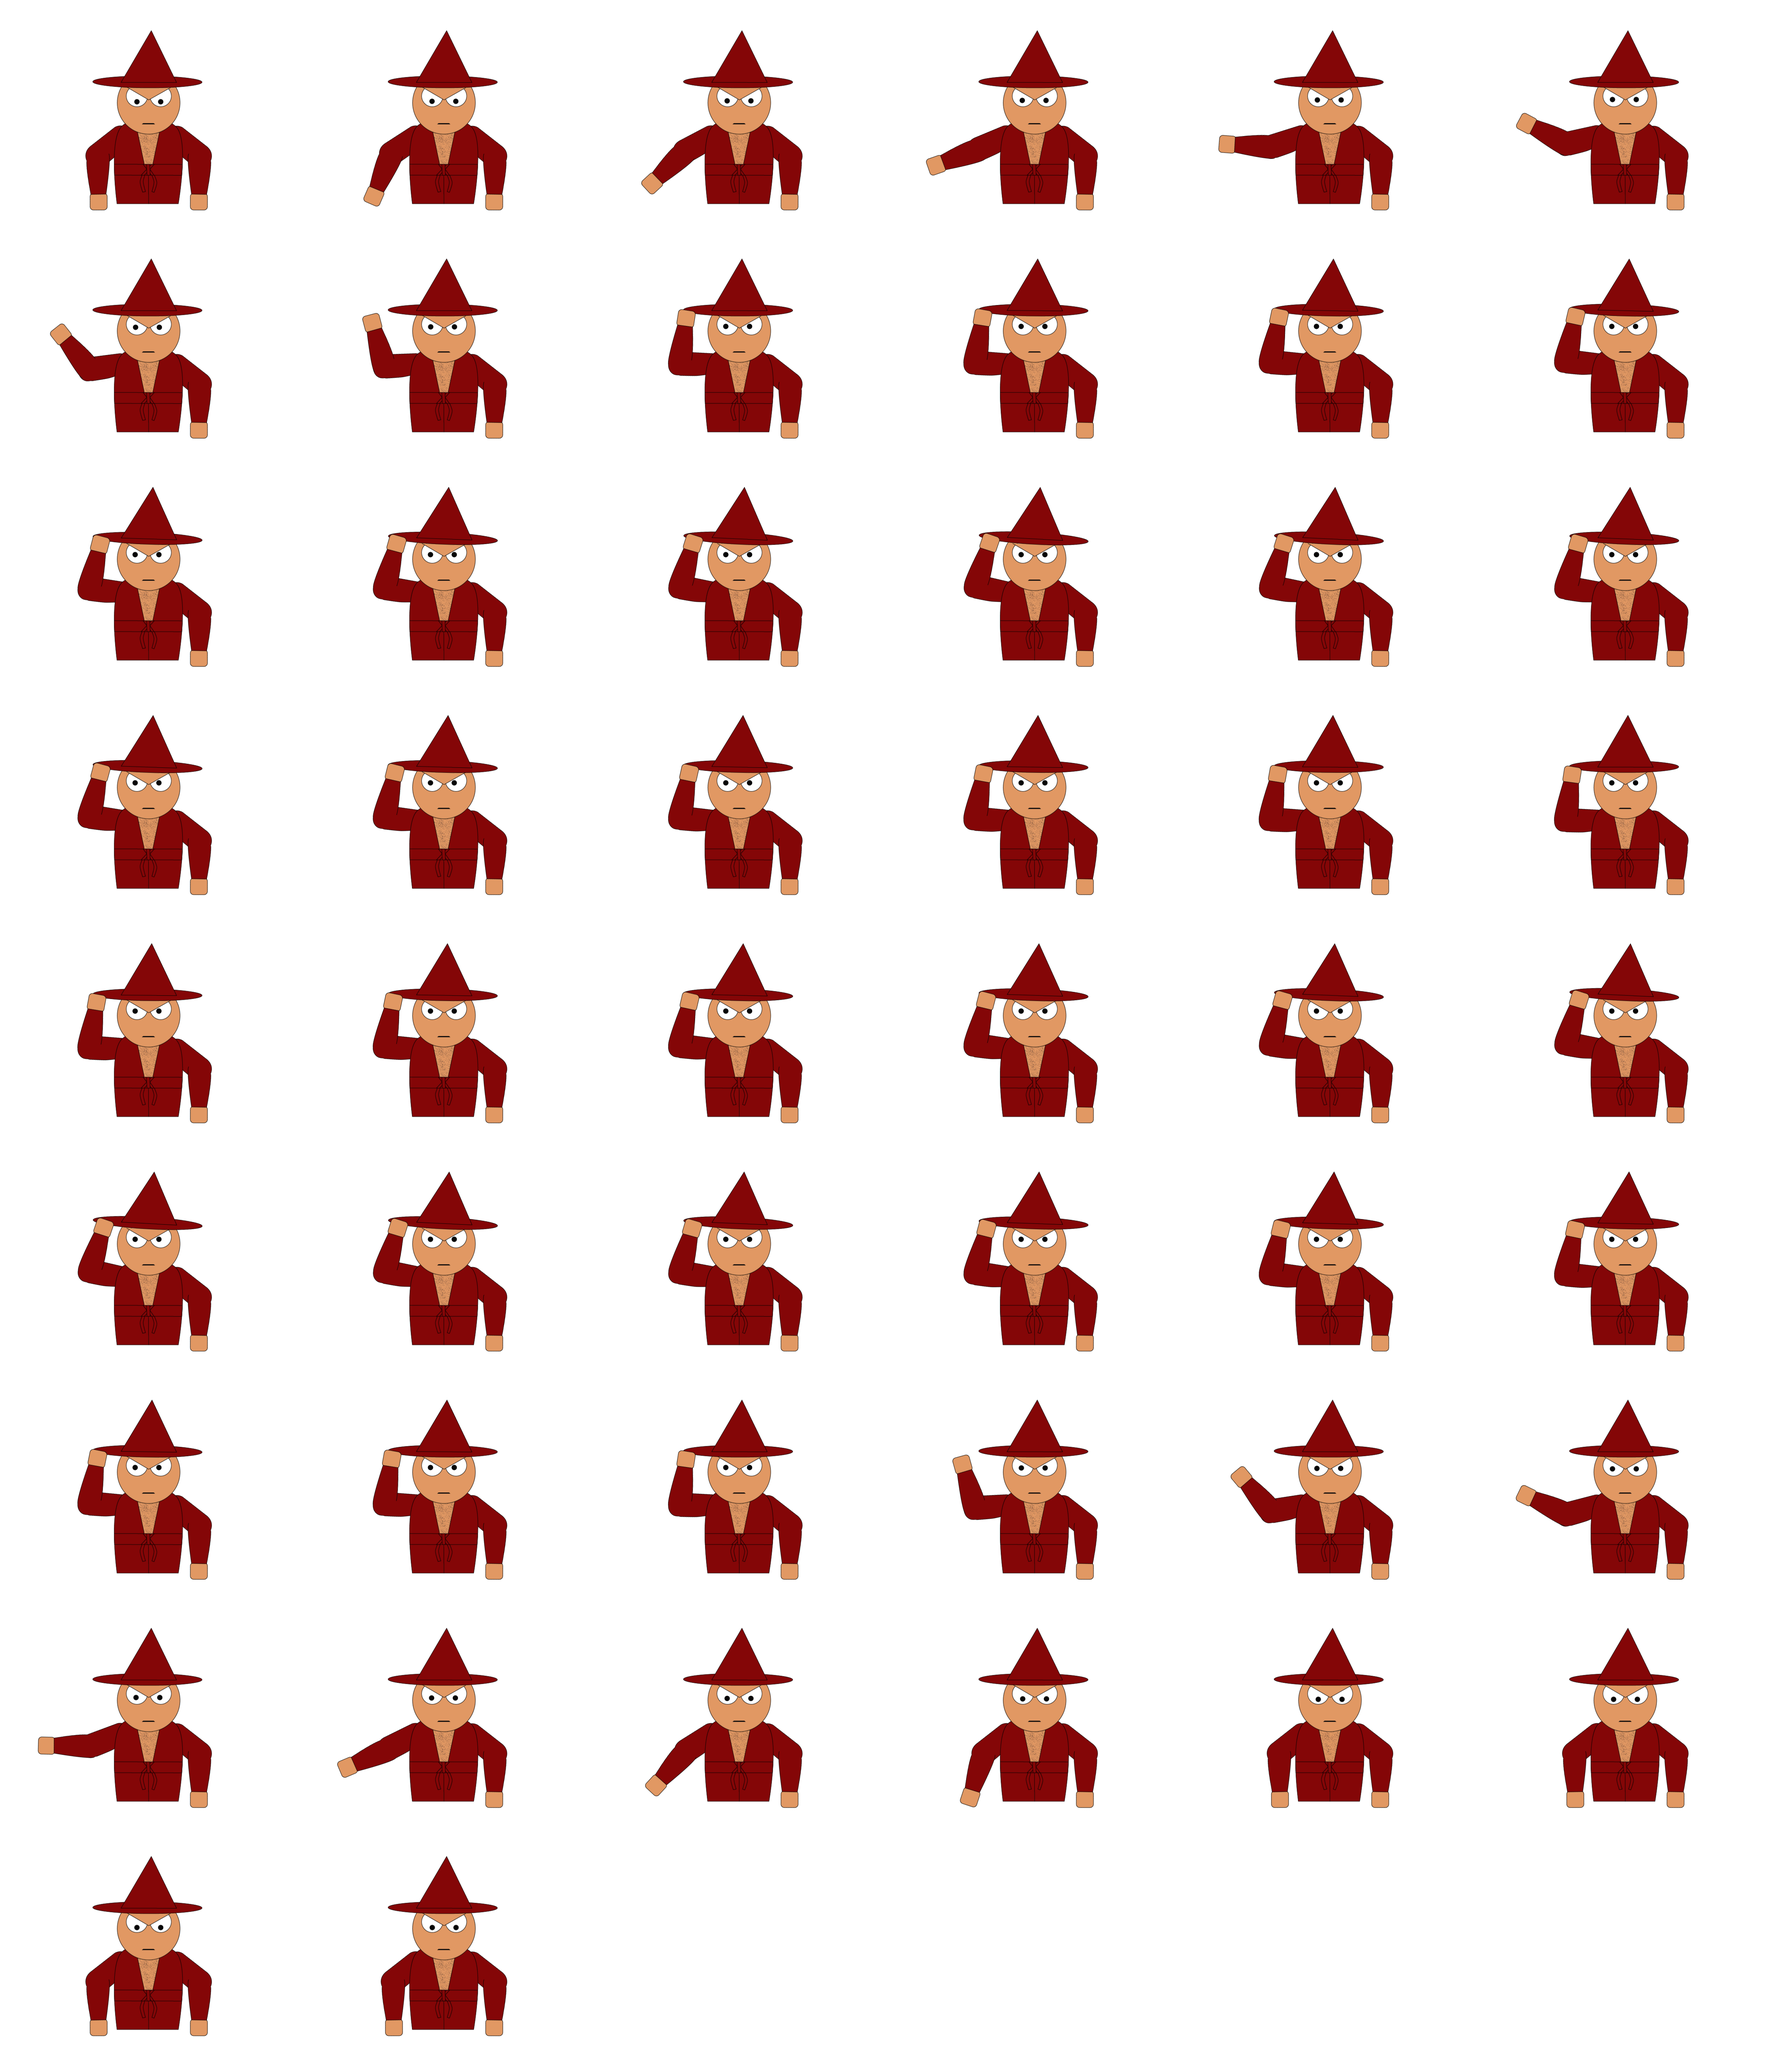
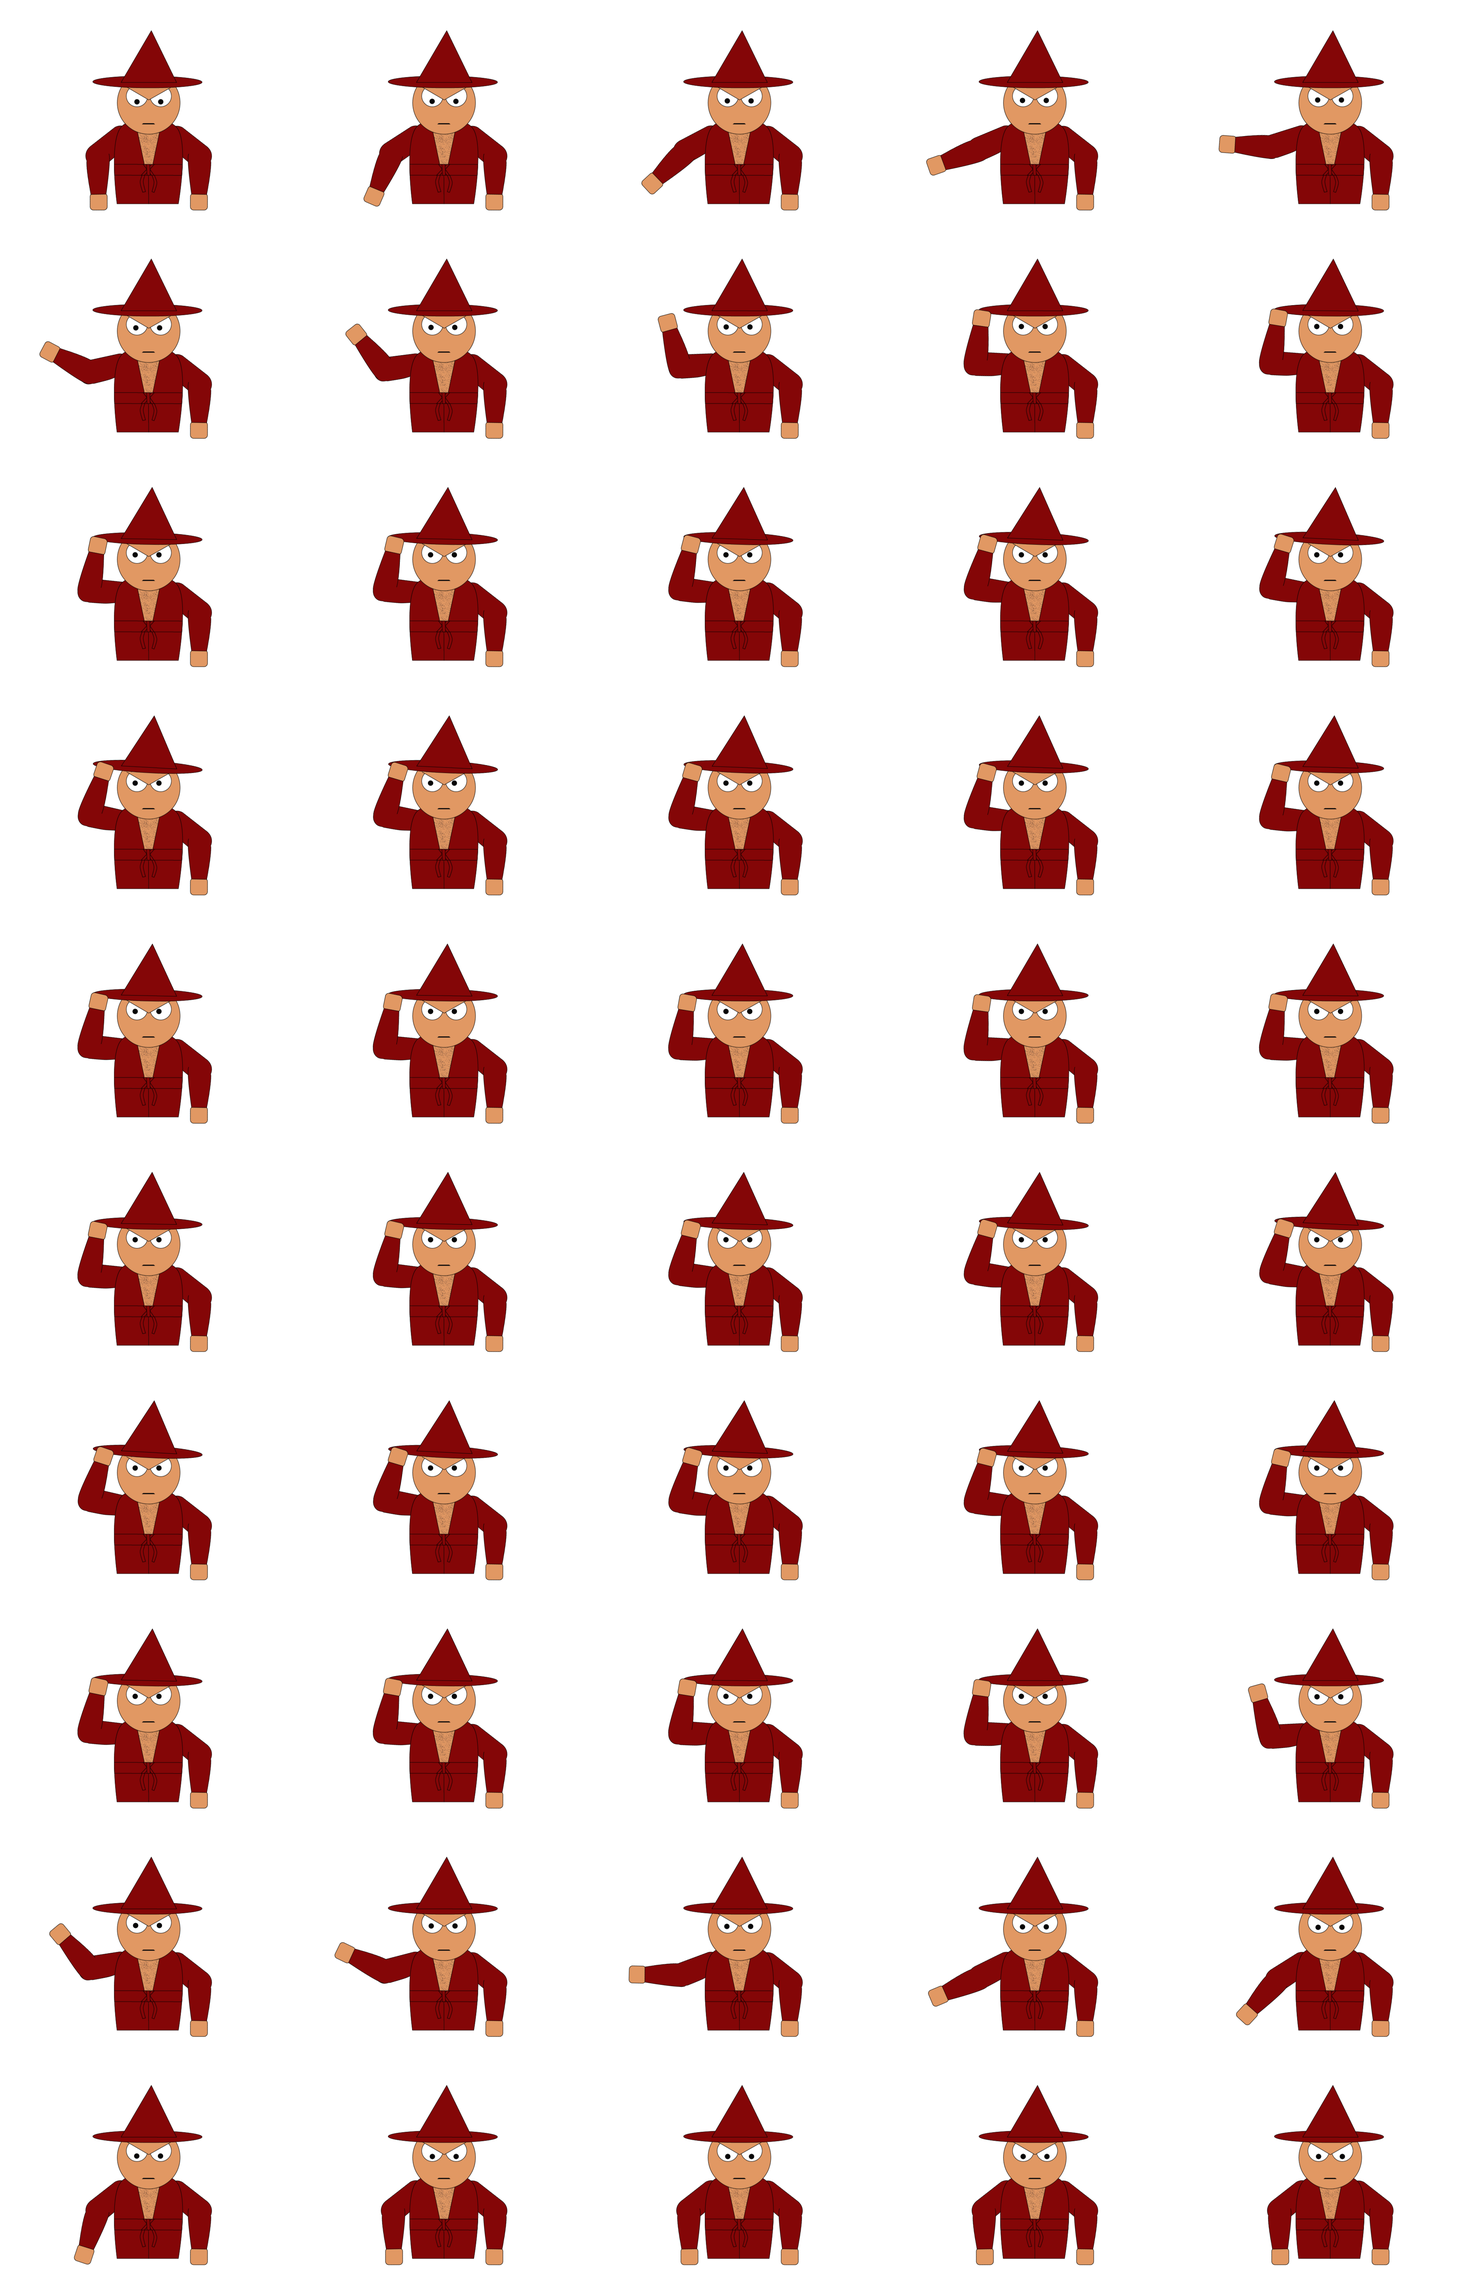
Fladnag Spritesheets + Code Assignments
- Added all spritesheets.
- Coded in and assigned variables/objects to spritesheets.

diff --git a/Project Files/main.js b/Project Files/main.js
@@ -15,11 +15,11 @@ var dayLength, currentTime, currentScore; //Gameplay
 var interBox, interBoxCheck, interCount, walkerCount, walkerMax, animTracker, animCur, mouse; //Game Control Variables
 var boxLock, gameGoing, idlePlaying, conjPlaying,spawnBox; //Control Booleans
 var towerReg; //Regions
-var fladIdle1, fladIdle2, fladConjure, walk1, walk2, walk3; //Animations
-var fladIdle1Sh, fladIdle2Sh, fladConjureSh; //Spritesheets
+var fladIdle1, fladIdle2, fladIdle3, fladIdle4, fladConjureL, fladConjureR, walk1, walk2, walk3; //Animations
+var fladIdle1Sh, fladIdle2Sh, fladIdle3Sh, fladIdle4Sh, fladConjureLSh, fladConjureRSh, walk1Sh, walk2Sh, walk3Sh; //Spritesheets
 var back, box1, box2, box3; //Static Images
 var walkers, boxes, anim; // Arrays
-var spawncolor;
+var spawncolor; 
 
 
 var engine; //Matter.js Variables
@@ -101,7 +101,7 @@ function setup() {
 
     //Functions
     matterCheck();
-    animPrep();
+    animPrep(); 	//Create and assign all image objects
 
 	engine = Engine.create(); //Matter.js setup
 	world = engine.world;
@@ -167,8 +167,6 @@ function gameControl() { //Various settings for game control/balance. Stuff like
 			boxLock = false;
 		}
 	}
-	//Walker Control
-		// Spawns and controls the number of Walkers on screen. Keeps track of walkerCount.
 
 	//Idle/Animation Control
 	switch (animCur) {
@@ -208,14 +206,27 @@ function heyListen() {
 }
 
 function animPrep() { //Loads & Retrieves SpriteSheet data for later use. Stores all data in anim[] array, via SprSheet objects.
-	fladIdle1Sh = loadImage("data/anim/fladnag_idle_sheet.png"); 		// Main Idle Loop
-	fladIdle1 = new SprSheet(10, 6, fladIdle1, 4752, 6120);
-	console.log("Slicing");
+	// fladIdle1, fladIdle2, fladIdle3, fladIdle4, fladConjureL, fladConjureR, walk1, walk2, walk3
+	// new SprSheet (rows, columns, img, dimX, dimY, cellCnt)
+	fladIdle1Sh = loadImage("data/anim/fladnag_idle_sheet.png"); 		// Main Idle
+	fladIdle1 = new SprSheet(10, 6, fladIdle1Sh, 4752, 6120, 60);
 	fladIdle1.sliceSheet(10, 6, 4752, 6120, 60);
 	fladIdle1.getTestArray(57, 57);
-	fladIdle1.getX(57);
-	fladIdle1.getY(57);
 
+	fladIdle2Sh = loadImage("data/anim/fladnag_fidget1_sheet.png"); 	// Idle Fidget 1
+	fladIdle2 = new SprSheet(10, 5, fladIdle2Sh, 3960, 6120, 50);
+	fladIdle2.sliceSheet(10, 5, 3960, 6120, 50);
+	fladIdle2.getTestArray(37, 37);
+
+	fladIdle3Sh = loadImage("data/anim/fladnag_fidget2_sheet.png"); 	// Idle Fidget 2
+	fladIdle3 = new SprSheet(6, 5, fladIdle3Sh, 3960, 3672, 29);
+	fladIdle3.sliceSheet(6, 5, 3960, 3672, 29);
+	fladIdle3.getTestArray(27, 27);
+
+	fladIdle4Sh = loadImage("data/anim/fladnag_fidget3_sheet.png"); 	// Idle Fidget 3
+	fladIdle4 = new SprSheet(5, 6, fladIdle4Sh, 4572, 3060, 30);
+	fladIdle4.sliceSheet(5, 6, 4572, 3060, 30);
+	fladIdle4.getTestArray(27, 27);
 }
 
 //Event Listener functions go here.

diff --git a/Project Files/spriteSheet.js b/Project Files/spriteSheet.js
@@ -13,12 +13,12 @@ function SprSheet (rows, columns, img, dimX, dimY, cellCnt) {
 		var cellX = dX/r; 
 		var cellY = dY/c;
 		var curLoc = createVector(0,0);
-		console.log("dX: " + dX + " | dY: " + dY);
-		console.log("cellX: " + cellX + " | cellY: " + cellY);
+		// console.log("dX: " + dX + " | dY: " + dY);
+		// console.log("cellX: " + cellX + " | cellY: " + cellY);
 		var j = 0; 
 		var k = 0; 
-		console.log("DimX/Rows = " + dX/r);
-		console.log("DimY/Columns = " + dY/c);
+		// console.log("DimX/Rows = " + dX/r);
+		// console.log("DimY/Columns = " + dY/c);
 
 		for(var i = 0; i < cellCnt; i++) {
 			// console.log("curLoc: " + curLoc + " | j: " + j + " | k: " + k);
@@ -26,10 +26,10 @@ function SprSheet (rows, columns, img, dimX, dimY, cellCnt) {
 			xCells.push(curLoc.x); 
 			yCells.push(curLoc.y);
 
-		console.log("xCells["+i+"]: "+xCells[i] + " | yCells["+i+"]: " + yCells[i]);
+		// console.log("xCells["+i+"]: "+xCells[i] + " | yCells["+i+"]: " + yCells[i]);
 			if (j < c) {
 				curLoc.x += cellX;
-				console.log("NEXT CELL");
+				// console.log("NEXT CELL");
 				j+=1;
 			}
 			else if (j == c) {
@@ -37,14 +37,14 @@ function SprSheet (rows, columns, img, dimX, dimY, cellCnt) {
 				j = 0;
 				k += 1;
 				curLoc.y += cellY;
-				console.log("NEXT ROW");
+				// console.log("NEXT ROW");
 			}
 			else {
 				console.log("SliceSheet ERROR in Coordinate Calculation");
 				break;
 			}
 		}
-		console.log("FINISHED");
+		// console.log("FINISHED");
 	}
 
 	this.getX = function(index) {
